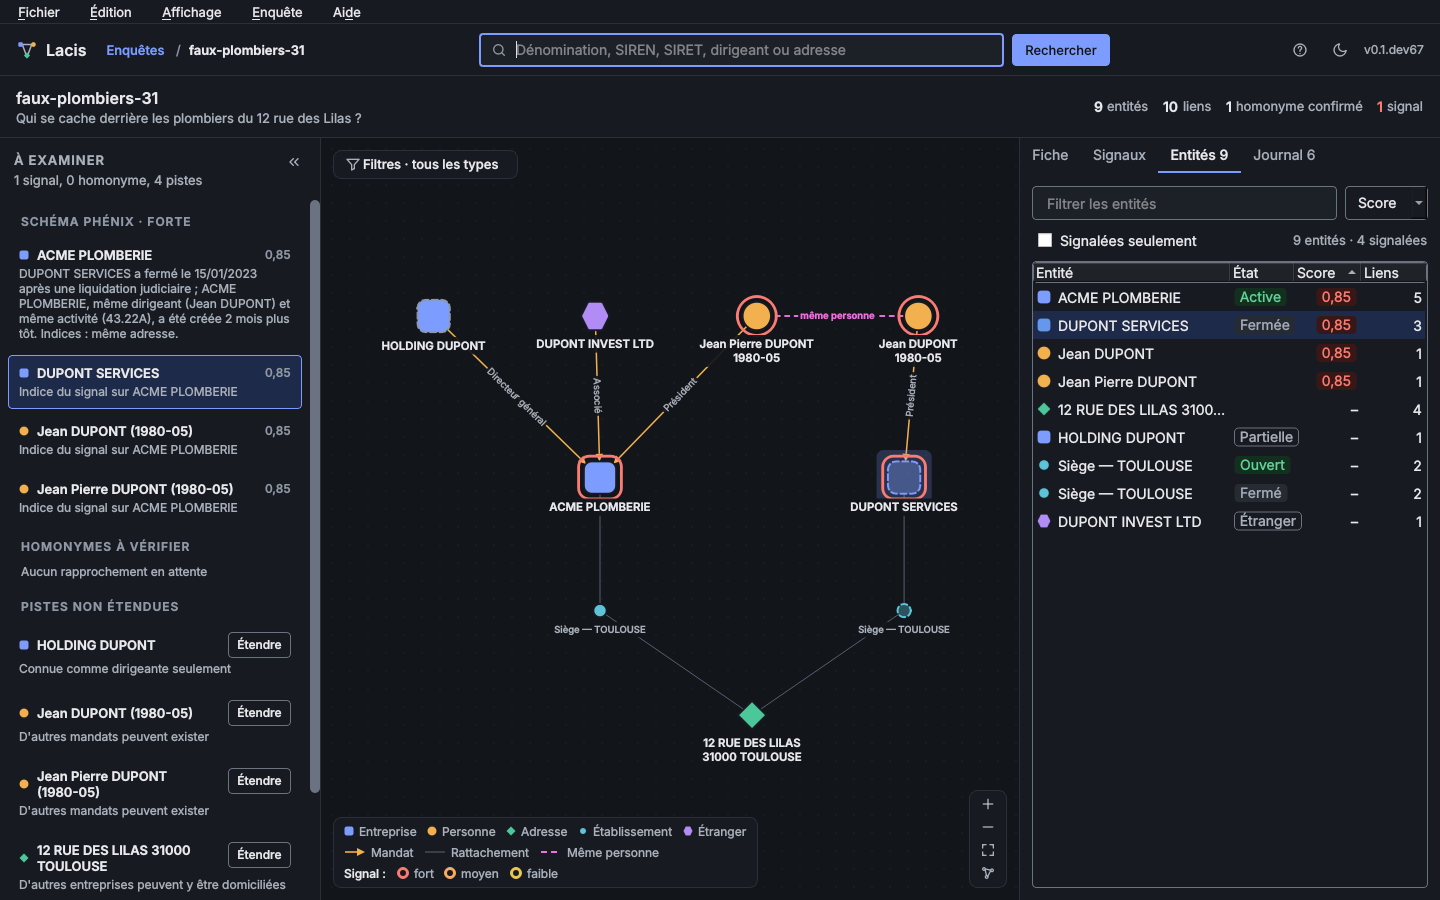
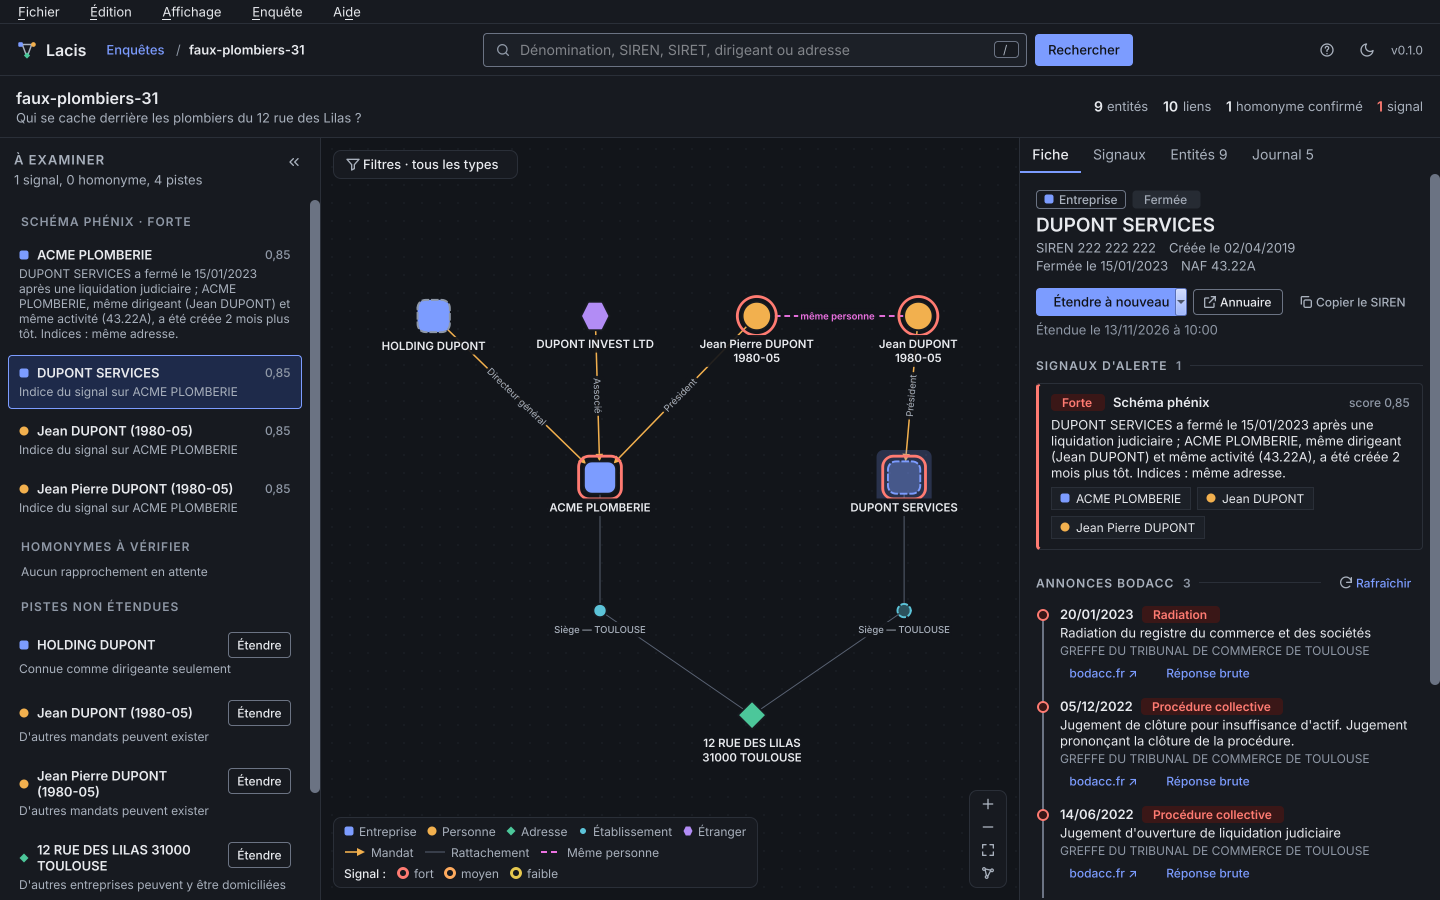
docs(197): Regenerate the screenshots of the website and the README
make screenshots now writes the main window of the home page into
site/src/assets/screenshots/, and the screenshots of the README and the
AppStream metadata into docs/images/. The README ones are rendered from
the same scene: they show the released version instead of a
development one, and the frozen time of the demo.

A test checks that every screenshot of the website comes from a scene
of the script and is shown by a page, and that the README and the
AppStream metadata show the screenshots of the script.

diff --git a/tests/test_take_screenshots.py b/tests/test_take_screenshots.py
@@ -11,6 +11,7 @@ from PySide6.QtWidgets import QApplication
 
 import take_screenshots
 from lacis.collectors import http_client
+from lacis.design.theme_controller import ThemePreference
 from lacis.graph import expansion
 from lacis.signals import recomputation
 from lacis.storage import homonym_decisions, investigations
@@ -18,6 +19,7 @@ from lacis.ui.main_window import DEFAULT_SIZE
 from take_screenshots import (
     FROZEN_MOMENT,
     SCENES,
+    SITE_SCREENSHOTS,
     THEMES,
     TIME_ZONE,
     frozen_clock,
@@ -31,6 +33,8 @@ from take_screenshots import (
     time_zone,
 )
 
+REPOSITORY = Path(__file__).resolve().parent.parent
+METAINFO = REPOSITORY / "packaging/linux/io.github.c4seus.lacis.metainfo.xml"
 CHANGELOG_TEXT = """# Changelog
 
 ## [Unreleased]
@@ -69,6 +73,33 @@ def expected_screenshots() -> list[str]:
             if scene.readme_name is not None:
                 expected.append(readme_screenshot(scene.readme_name, theme).as_posix())
     return expected
+
+
+def test_every_screenshot_of_the_website_comes_from_a_scene_and_is_shown() -> None:
+    committed = sorted(
+        path.relative_to(REPOSITORY).as_posix()
+        for path in (REPOSITORY / SITE_SCREENSHOTS).iterdir()
+    )
+    made = sorted(
+        site_screenshot(scene.name, theme).as_posix() for scene in SCENES for theme in THEMES
+    )
+    assert committed == made
+    pages = "".join(
+        page.read_text(encoding="utf-8")
+        for page in (REPOSITORY / "site/src/content/docs").rglob("*.md*")
+    )
+    assert [screenshot for screenshot in made if Path(screenshot).name not in pages] == []
+
+
+def test_the_readme_and_the_appstream_metadata_show_the_screenshots_of_the_demo() -> None:
+    readme = (REPOSITORY / "README.md").read_text(encoding="utf-8")
+    metainfo = METAINFO.read_text(encoding="utf-8")
+    for scene in SCENES:
+        if scene.readme_name is None:
+            continue
+        assert readme_screenshot(scene.readme_name, ThemePreference.LIGHT).as_posix() in readme
+        for theme in THEMES:
+            assert readme_screenshot(scene.readme_name, theme).as_posix() in metainfo
 
 
 def test_the_screenshots_show_the_last_released_version() -> None:

diff --git a/tests/test_website.py b/tests/test_website.py
@@ -111,7 +111,7 @@ def lossless_webp_size(path: Path) -> tuple[int, int]:
 
 def test_the_home_page_shows_the_main_window_in_both_themes_at_the_same_size() -> None:
     sizes = {
-        lossless_webp_size(SITE / f"src/assets/main-window-{theme}.webp")
+        lossless_webp_size(SITE / f"src/assets/screenshots/main-window-{theme}.webp")
         for theme in ("light", "dark")
     }
     assert sizes == {(2 * 1440, 2 * 900)}
